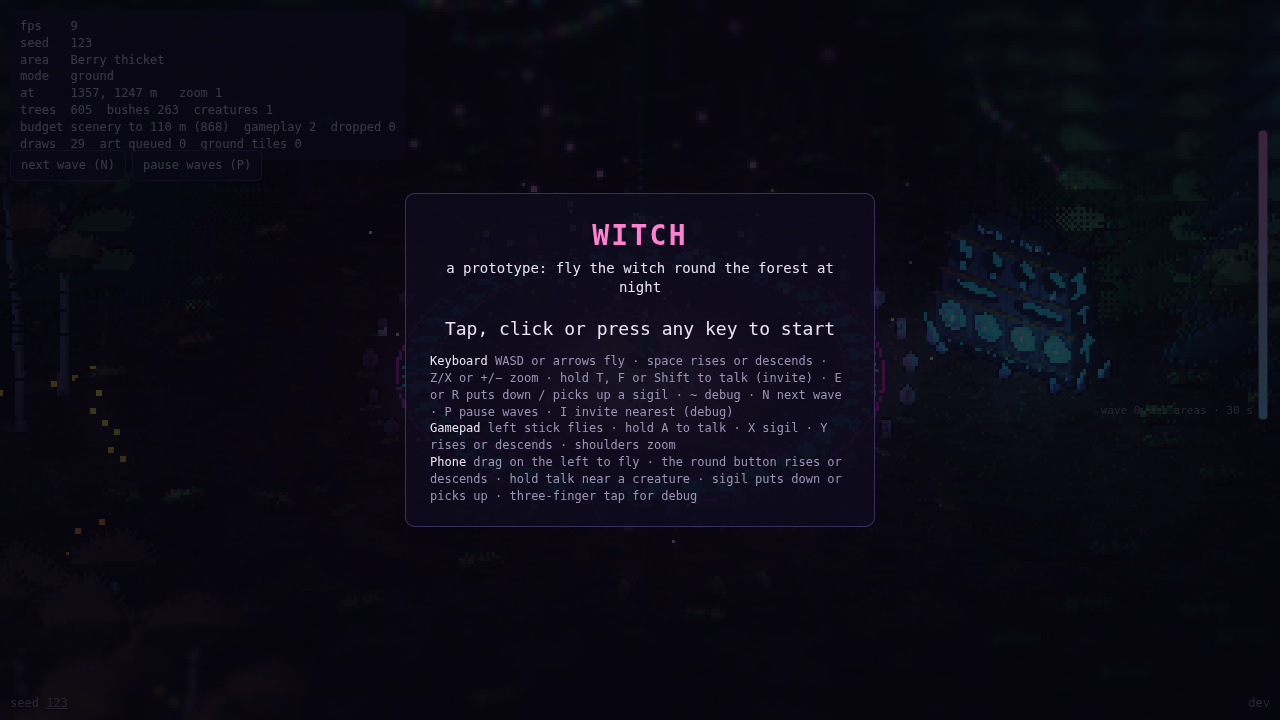
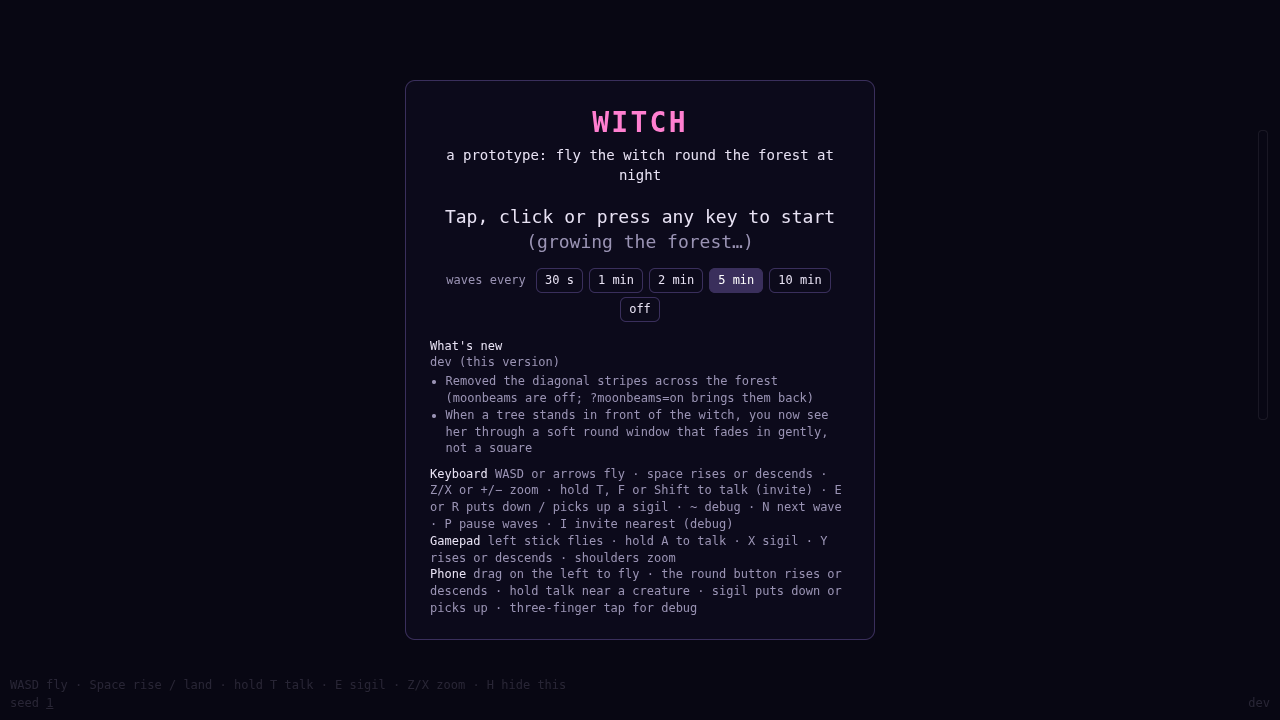
Moonbeams off by default (?moonbeams=on); the see-through round the witch is a soft circle that eases in; What's new on the start screen from config/changelog.json; path network rules (not wired yet)
Claude-Session: https://claude.ai/code/session_01MR6jyHx6mcGYyfzATvhXK3

diff --git a/src/rules/paths.ts b/src/rules/paths.ts
@@ -1,0 +1,144 @@
+// Paths, roads and railways (Ed, 2026-10-03): worn paths meander between areas' glades, fork,
+// loop and sometimes stop at a dead end; a broad old road or two sweeps across the forest; and
+// two to four railway lines cross many areas in long, gentle curves, with a branch line, broken
+// sections where the track is gone and trees grow between the sleepers. They carve tree-free
+// corridors with bushes along their edges. Seeded, so they never change; no drawing here.
+import { clamp, hash2, rng, vnoise } from "./random";
+import type { ForestMap } from "./map";
+
+export type PathKind = "path" | "road" | "rail";
+export const PATH_KINDS: PathKind[] = ["path", "road", "rail"];
+
+export interface PathLine {
+  kind: PathKind;
+  /** The centreline, sampled every few metres. */
+  pts: [number, number][];
+  /** Half the corridor's width (metres). */
+  half: number;
+}
+
+export interface PathHit { kind: PathKind; line: number; /** distance from the centreline */ d: number; /** index of the nearest segment */ seg: number }
+
+/** A smooth curve through control points (centripetal Catmull-Rom), sampled every `step` metres. */
+export function spline(ctrl: [number, number][], step: number): [number, number][] {
+  const out: [number, number][] = [];
+  const P = [ctrl[0], ...ctrl, ctrl[ctrl.length - 1]];
+  for (let i = 1; i < P.length - 2; i++) {
+    const [p0, p1, p2, p3] = [P[i - 1], P[i], P[i + 1], P[i + 2]];
+    const len = Math.hypot(p2[0] - p1[0], p2[1] - p1[1]), n = Math.max(1, Math.ceil(len / step));
+    for (let k = 0; k < n; k++) {
+      const t = k / n, t2 = t * t, t3 = t2 * t;
+      const f = (a: number, b: number, c: number, d: number) => 0.5 * (2 * b + (-a + c) * t + (2 * a - 5 * b + 4 * c - d) * t2 + (-a + 3 * b - 3 * c + d) * t3);
+      out.push([f(p0[0], p1[0], p2[0], p3[0]), f(p0[1], p1[1], p2[1], p3[1])]);
+    }
+  }
+  out.push(ctrl[ctrl.length - 1]);
+  return out;
+}
+
+export class PathNetwork {
+  readonly lines: PathLine[] = [];
+  private grid = new Map<string, [number, number][]>(); // cell -> [line, segment]
+  private readonly cell = 24;
+
+  constructor(readonly map: ForestMap) {
+    const t = map.tuning.paths, b = map.bounds, r = rng(map.seed * 7 + 4242);
+    const W = b.maxX - b.minX, H = b.maxZ - b.minZ;
+    const edgePoint = (side: number, u: number): [number, number] =>
+      side === 0 ? [b.minX + u * W, b.minZ] : side === 1 ? [b.maxX, b.minZ + u * H] : side === 2 ? [b.minX + u * W, b.maxZ] : [b.minX, b.minZ + u * H];
+    // A long line from one edge to another: control points every `spacing` metres, nudged
+    // sideways by up to `wander`, so it bends in wide, gentle curves.
+    const crossing = (from: [number, number], to: [number, number], spacing: number, wander: number): [number, number][] => {
+      const dx = to[0] - from[0], dz = to[1] - from[1], len = Math.hypot(dx, dz), n = Math.max(2, Math.round(len / spacing));
+      const ctrl: [number, number][] = [from];
+      let off = 0;
+      for (let i = 1; i < n; i++) {
+        off = clamp(off + (r() - 0.5) * wander, -wander, wander);
+        const k = i / n;
+        ctrl.push([clamp(from[0] + dx * k - (dz / len) * off, b.minX, b.maxX), clamp(from[1] + dz * k + (dx / len) * off, b.minZ, b.maxZ)]);
+      }
+      ctrl.push(to);
+      return spline(ctrl, 3);
+    };
+    // Railways: two to four lines, edge to edge, in wide curves; one with a branch line.
+    const rails = t.rails[0] + Math.floor(r() * (t.rails[1] - t.rails[0] + 1));
+    for (let i = 0; i < rails; i++) {
+      const s = Math.floor(r() * 4), e = (s + 2 + (r() < 0.3 ? (r() < 0.5 ? 1 : -1) : 0) + 4) % 4;
+      const pts = crossing(edgePoint(s, 0.15 + r() * 0.7), edgePoint(e, 0.15 + r() * 0.7), 320, 140);
+      this.lines.push({ kind: "rail", pts, half: t.railHalf });
+      if (i === 0 && pts.length > 20) {
+        const at = pts[Math.floor(pts.length * (0.3 + r() * 0.4))], side = Math.floor(r() * 4);
+        this.lines.push({ kind: "rail", pts: crossing(at, edgePoint(side, 0.2 + r() * 0.6), 300, 120), half: t.railHalf });
+      }
+    }
+    // Old roads: fewer, broad, sweeping; they may cross a railway (a level crossing).
+    const roads = t.roads[0] + Math.floor(r() * (t.roads[1] - t.roads[0] + 1));
+    for (let i = 0; i < roads; i++) {
+      const s = Math.floor(r() * 4), e = (s + 2) % 4;
+      this.lines.push({ kind: "road", pts: crossing(edgePoint(s, 0.1 + r() * 0.8), edgePoint(e, 0.1 + r() * 0.8), 240, 110), half: t.roadHalf });
+    }
+    // Paths: between neighbouring areas' centres (some pairs), meandering; and a dead end or two
+    // in some areas, out to nothing in particular (a ruin, later).
+    const seen = new Set<string>();
+    for (const [k, nbrs] of map.neighbours) {
+      const [ax, ay] = k.split(",").map(Number);
+      for (const nk of nbrs) {
+        const pair = k < nk ? `${k}|${nk}` : `${nk}|${k}`;
+        if (seen.has(pair)) continue;
+        seen.add(pair);
+        const [bx, by] = nk.split(",").map(Number);
+        if (bx < 0 || by < 0 || bx >= map.n || by >= map.n) continue;
+        if (hash2(ax * 31 + bx, ay * 31 + by, map.seed + 811) > t.linkChance) continue;
+        this.lines.push({ kind: "path", pts: this.meander(map.siteOf(ax, ay), map.siteOf(bx, by), r), half: t.pathHalf });
+      }
+      if (hash2(ax, ay, map.seed + 813) < t.deadEndChance) {
+        const s = map.siteOf(ax, ay), a = r() * Math.PI * 2, d = 30 + r() * 40;
+        this.lines.push({ kind: "path", pts: this.meander(s, { x: s.x + Math.cos(a) * d, z: s.z + Math.sin(a) * d }, r), half: t.pathHalf });
+      }
+    }
+    this.lines.forEach((l, li) => {
+      for (let i = 0; i < l.pts.length - 1; i++) {
+        const [a, c] = [l.pts[i], l.pts[i + 1]], pad = l.half + 4;
+        for (let gx = Math.floor((Math.min(a[0], c[0]) - pad) / this.cell); gx <= Math.floor((Math.max(a[0], c[0]) + pad) / this.cell); gx++)
+          for (let gz = Math.floor((Math.min(a[1], c[1]) - pad) / this.cell); gz <= Math.floor((Math.max(a[1], c[1]) + pad) / this.cell); gz++) {
+            const key = `${gx},${gz}`;
+            let list = this.grid.get(key);
+            if (!list) this.grid.set(key, (list = []));
+            list.push([li, i]);
+          }
+      }
+    });
+  }
+
+  /** A wandering path from a to b: a curve through a few points nudged sideways by noise. */
+  private meander(a: { x: number; z: number }, b: { x: number; z: number }, r: () => number): [number, number][] {
+    const dx = b.x - a.x, dz = b.z - a.z, len = Math.max(1, Math.hypot(dx, dz)), n = Math.max(2, Math.round(len / 25));
+    const ctrl: [number, number][] = [[a.x, a.z]];
+    for (let i = 1; i < n; i++) {
+      const k = i / n, off = (r() - 0.5) * 2 * Math.min(18, len * 0.15);
+      ctrl.push([a.x + dx * k - (dz / len) * off, a.z + dz * k + (dx / len) * off]);
+    }
+    ctrl.push([b.x, b.z]);
+    return spline(ctrl, 2);
+  }
+
+  /** The nearest path, road or railway corridor at (x, z), if within `extra` metres of its edge. */
+  at(x: number, z: number, extra = 0): PathHit | null {
+    const list = this.grid.get(`${Math.floor(x / this.cell)},${Math.floor(z / this.cell)}`);
+    if (!list) return null;
+    let best: PathHit | null = null;
+    for (const [li, si] of list) {
+      const l = this.lines[li], [a, c] = [l.pts[si], l.pts[si + 1]];
+      const ex = c[0] - a[0], ez = c[1] - a[1], L2 = ex * ex + ez * ez || 1;
+      const u = clamp(((x - a[0]) * ex + (z - a[1]) * ez) / L2, 0, 1), d = Math.hypot(x - a[0] - ex * u, z - a[1] - ez * u);
+      if (d > l.half + extra) continue;
+      if (!best || d - l.half < best.d - this.lines[best.line].half) best = { kind: l.kind, line: li, d, seg: si };
+    }
+    return best;
+  }
+
+  /** Whether a railway is broken here (no track: trees may grow), by a noise along the line. */
+  railBroken(x: number, z: number): boolean {
+    return vnoise(x / 60, z / 60, this.map.seed + 817) < this.map.tuning.paths.railBroken;
+  }
+}

diff --git a/src/main.ts b/src/main.ts
@@ -8,6 +8,7 @@ import { Input } from "./platform/input";
 import { View } from "./render/view";
 import { loadStyle } from "./render/style";
 import { setupTouch } from "./ui/touch";
+import changelog from "../config/changelog.json";
 
 const params = new URLSearchParams(location.search);
 let seed = parseSeed(params.get("seed"));
@@ -31,6 +32,7 @@ const tilt = params.get("tilt");
 if (tilt === "off") tuning.tiltShift.on = false;
 else if (tilt === "before" || tilt === "after") { tuning.tiltShift.on = true; tuning.tiltShift.where = tilt; }
 if (params.get("bloom") === "off") tuning.bloom.on = false;
+if (params.get("moonbeams") === "on") tuning.moonbeams = 1;
 const fx = params.get("fx");
 if (fx === "pixel" || fx === "smooth") tuning.fx = fx;
 
@@ -83,6 +85,13 @@ window.addEventListener("keydown", e => {
 
 declare const __BUILD__: string;
 document.getElementById("version")!.textContent = typeof __BUILD__ === "string" ? __BUILD__ : "dev";
+// What's new, on the start screen: the last three versions, newest first (config/changelog.json).
+const newsEl = document.getElementById("news")!;
+const buildName = typeof __BUILD__ === "string" ? __BUILD__.split(" ")[0] : "dev";
+const esc = (s: string) => s.replace(/[&<>]/g, c => ({ "&": "&amp;", "<": "&lt;", ">": "&gt;" })[c]!);
+newsEl.innerHTML = "<b>What's new</b>" + changelog.entries.slice(0, 3).map(e =>
+  `<div>${e.version === null ? `${buildName} (this version)` : "v" + e.version}</div><ul>${e.items.map(i => `<li>${esc(i)}</li>`).join("")}</ul>`).join("");
+newsEl.addEventListener("pointerdown", e => e.stopPropagation()); // scrolling it doesn't start the game
 const seedEl = document.getElementById("seed")!;
 seedEl.innerHTML = `seed <a href="?seed=${seed}">${seed}</a>`;
 const debugEl = document.getElementById("debug")!, startEl = document.getElementById("start")!;

diff --git a/src/render/sprites.ts b/src/render/sprites.ts
@@ -47,7 +47,8 @@ varying vec3 vFlags;
 varying float vFront;
 void main() {
   // Tall and nearer the camera than the witch: it may stand in front of her.
-  vFront = (-(viewMatrix * vec4(iPos, 1.0)).z < uWitchDepth - 0.5 && iSize.y > uOcc.z) ? 1.0 : 0.0;
+  // Eased over a few metres of depth and of height, so nothing snaps into the fade as she moves.
+  vFront = smoothstep(0.0, 3.0, uWitchDepth - 0.5 + (viewMatrix * vec4(iPos, 1.0)).z) * smoothstep(uOcc.z * 0.7, uOcc.z * 1.3, iSize.y);
   vec3 w = iPos + uRight * (position.x * iSize.x) + uUp * (position.y * iSize.y);
   float u = iFlags.x > 0.5 ? 1.0 - uv.x : uv.x;
   vUv = vec2(mix(iUv.x, iUv.z, u), mix(iUv.w, iUv.y, uv.y));
@@ -93,9 +94,10 @@ void shade() {
   if (uSilhouette.a > 0.0) { gl_FragColor = vec4(uSilhouette.rgb, uSilhouette.a); return; }
   // Things standing in front of the witch fade (smoothly) where they cover her: left out of the
   // opaque pass there and drawn in a second, see-through pass after her.
-  // A soft oval round her (no hard window): fully faded inside, easing out over uOcc.y of its size.
-  float e = length((gl_FragCoord.xy - uWitch.xy) / max(uWitch.zw * 1.2, vec2(1.0)));
-  float occl = uOcc.w * vFront * (1.0 - smoothstep(1.0, 1.0 + uOcc.y, e));
+  // A soft circle round her body, a little bigger than her sprite: fully see-through at the
+  // centre, easing smoothly to opaque at the edge (uOcc.y: how far the edge reaches, a share of it).
+  float e = length(gl_FragCoord.xy - uWitch.xy) / max(max(uWitch.z, uWitch.w) * 1.2, 1.0);
+  float occl = uOcc.w * vFront * (1.0 - smoothstep(0.3, 1.0 + uOcc.y, e));
   if (uFadePass > 0.5 ? occl <= 0.001 : occl > 0.001) discard;
   float alpha = uFadePass > 0.5 ? mix(1.0, uOcc.x, occl) : 1.0;
   if (vFlags.y > 0.5) {

diff --git a/index.html b/index.html
@@ -34,6 +34,9 @@
     #waves { margin: 0 0 14px; color: var(--dim); font-size: 12px; }
     #waves button { font: inherit; margin: 2px 3px; padding: 3px 8px; color: var(--ink); background: transparent; border: 1px solid #3a2f5c; border-radius: 6px; cursor: pointer; }
     #waves button.on { background: #3a2f5c; color: #fff; }
+    #news { margin: 0 0 14px; color: var(--dim); font-size: 12px; text-align: left; max-height: 12em; overflow-y: auto; }
+    #news b { color: var(--ink); font-weight: normal; }
+    #news ul { margin: 2px 0 6px; padding-left: 1.3em; }
     #start .keys b { color: var(--ink); font-weight: normal; }
     #start.loading .go::after { content: " (growing the forest…)"; color: var(--dim); }
     #touch { position: fixed; inset: 0; display: none; pointer-events: none; }
@@ -83,6 +86,7 @@
       <div>a prototype: fly the witch round the forest at night</div>
       <div class="go">Tap, click or press any key to start</div>
       <div id="waves"></div>
+      <div id="news"></div>
       <div class="keys">
         <b>Keyboard</b> WASD or arrows fly · space rises or descends · Z/X or +/− zoom · hold T, F or Shift to talk (invite) · E or R puts down / picks up a sigil · ~ debug · N next wave · P pause waves · I invite nearest (debug)<br>
         <b>Gamepad</b> left stick flies · hold A to talk · X sigil · Y rises or descends · shoulders zoom<br>

diff --git a/src/rules/tuning.ts b/src/rules/tuning.ts
@@ -76,6 +76,8 @@ export interface Tuning {
   mist: { on: boolean; strength: number; height: number; wind: number };
   /** How mist, far haze and canopy dapple are drawn: smooth gradients, or dithered pixel steps. */
   fx: "smooth" | "pixel";
+  moonbeams: number;
+  paths: { rails: number[]; roads: number[]; linkChance: number; deadEndChance: number; pathHalf: number; roadHalf: number; railHalf: number; railBroken: number; treesOnBroken: number; edgeBushes: number; bushBoost: number };
   lights: { campfire: { reach: number; strength: number }; stone: { reach: number; strength: number } };
   glowPower: number;
   beat: { bpm: number };

diff --git a/src/render/view.ts b/src/render/view.ts
@@ -94,7 +94,7 @@ export class View {
     this.camera = new THREE.PerspectiveCamera(t.camera.fov, 1, 1, 900);
     this.post = new Post(this.renderer, t);
     this.scene.background = new THREE.Color(0x0b0a16);
-    applyStyleLight(style, t.glowReach, this.mpp, t.tone.ambient);
+    applyStyleLight({ ...style, shafts: style.shafts * t.moonbeams }, t.glowReach, this.mpp, t.tone.ambient);
     LIGHT_UNIFORMS.uGlowPower.value = t.glowPower;
     this.assets = new AssetLibrary(style, game.seed, t.pixelSize);
     this.ground = new Ground(game.map, game.forest, style, this.mpp);

diff --git a/CLAUDE.md b/CLAUDE.md
@@ -14,6 +14,10 @@ The playable game is a static site on GitHub Pages, served from the `gh-pages` b
 
 Pages must be switched on once in the repository's settings (Source: *Deploy from a branch*, `gh-pages`, `/ (root)`); until then the links return 404. A deploy is verified by opening the link and checking the seed and the game load.
 
+## What's new
+
+The start screen shows a **What's new** panel: the last three entries of `config/changelog.json`, newest first. Every push that changes something Ed can see adds its bullets to the top entry, in plain player-facing words ("Trees no longer pop in and out"), not commit-speak. The top entry's `version` is `null` until its build has a number (it shows as the build being played); on the next push, write in that number from the playable-link comment and start a new `null` entry above it.
+
 ## Testing
 
 CI (`.github/workflows/ci.yml`) runs on every push and pull request, in this order:
